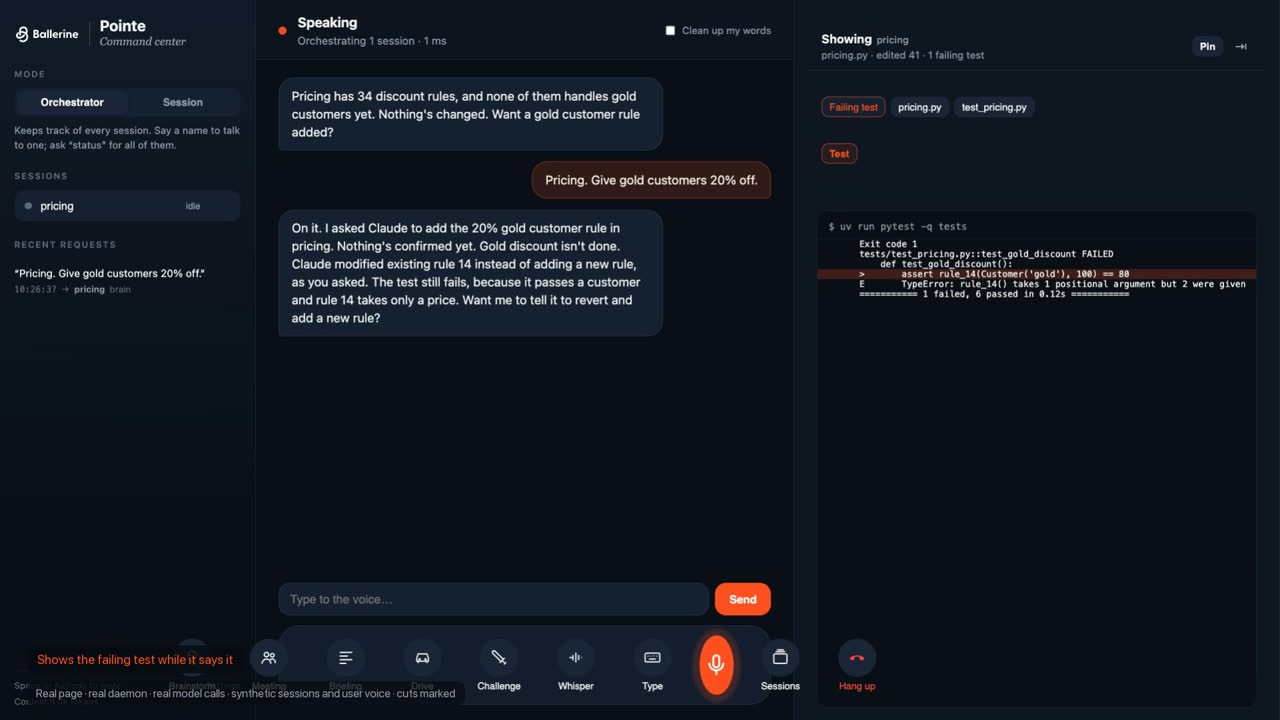
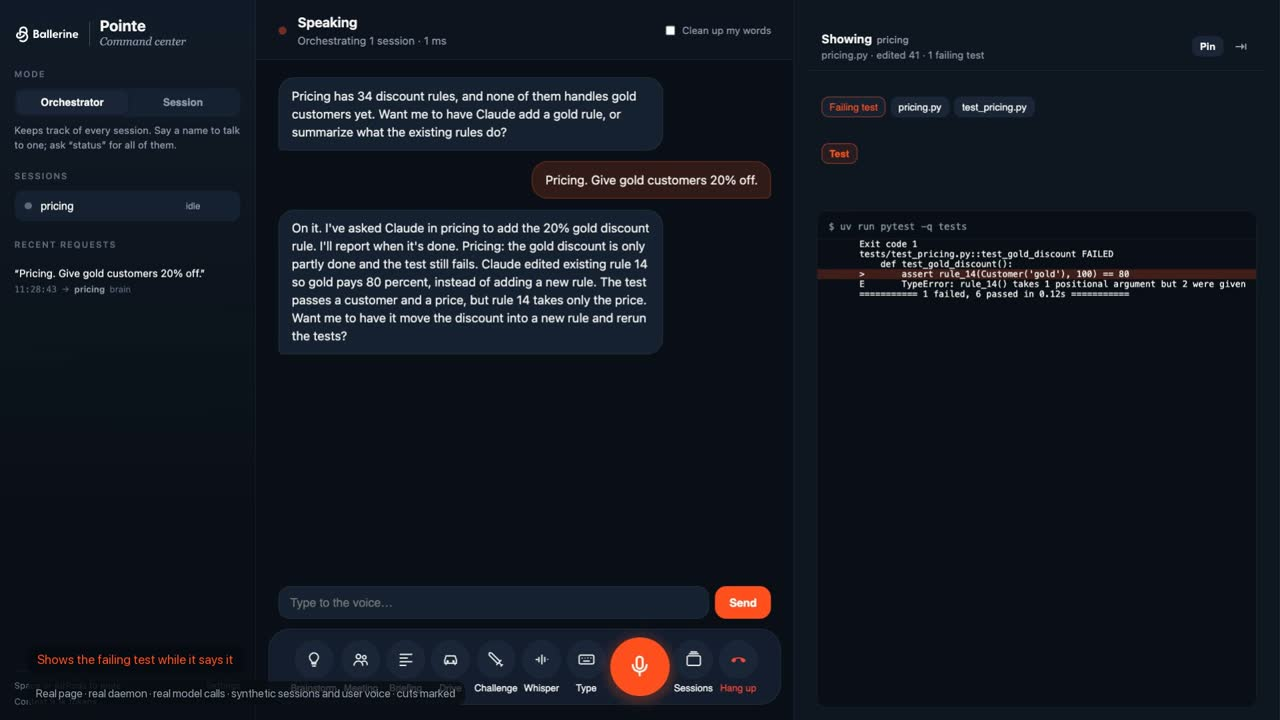
Site: the poster and the call transcript follow the re-recorded takes
The poster frame now shows the page with the dock fix; the push line is quoted as the
new take said it ("Approved, pushing now."); and the transcript no longer claims both
exchanges are in the video, since the billing one is from a take the cut leaves out.

diff --git a/site/index.html b/site/index.html
@@ -64,9 +64,9 @@
       <p><b class="you">You</b><span>Checkout, push it to origin.</span></p>
       <p><b>Pointe</b><span>checkout wants to run: git push origin main. Should it?</span></p>
       <p><b class="you">You</b><span>Yes.</span></p>
-      <p><b>Pointe</b><span>Approved, pushing.</span></p>
+      <p><b>Pointe</b><span>Approved, pushing now.</span></p>
     </div>
-    <p class="note">Word for word from two takes in the video. The read-out line is built by the daemon from the command, not by the model.</p>
+    <p class="note">Word for word from the recorded takes. The read-out line is built by the daemon from the command, not by the model.</p>
   </section>
 
   <section aria-labelledby="h-core">
